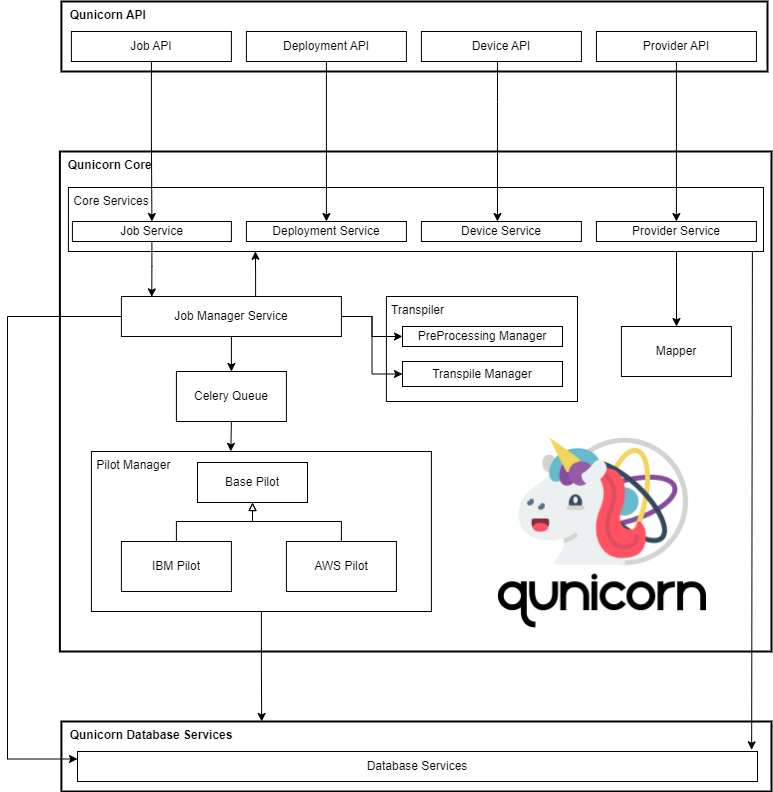
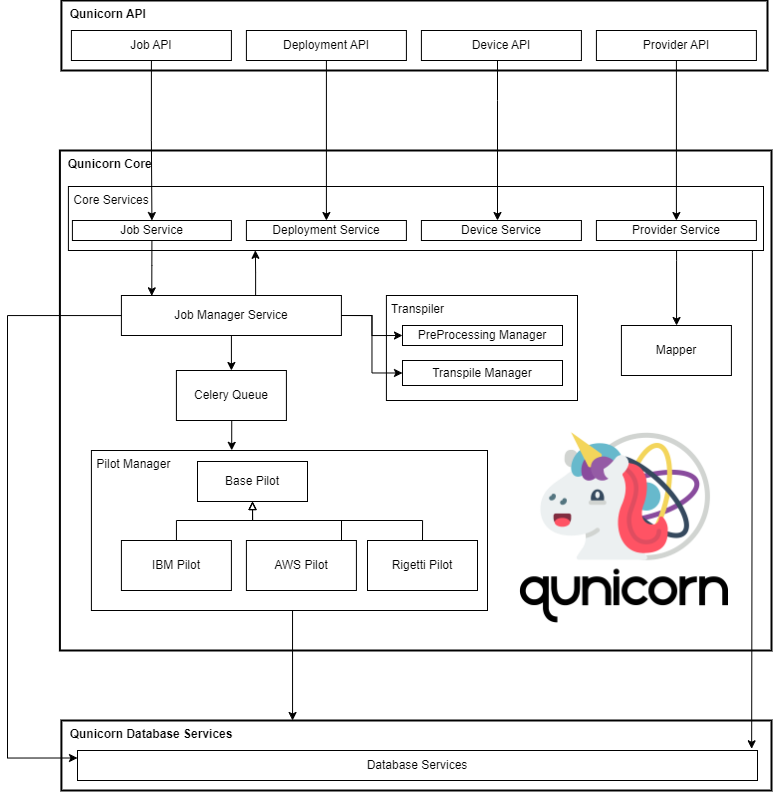
general fixes and documentation changes

diff --git a/qunicorn_core/core/pilotmanager/rigetti_pilot.py b/qunicorn_core/core/pilotmanager/rigetti_pilot.py
@@ -22,7 +22,7 @@ from qunicorn_core.util import logging
 DEFAULT_QUANTUM_CIRCUIT_2 = """from pyquil import Program \n
 from pyquil.gates import * \n
 from pyquil.quilbase import Declare\n
-program = Program(
+circuit = Program(
 Declare(\"ro\", \"BIT\", 2),
 H(0),
 H(0),
@@ -34,7 +34,7 @@ MEASURE(1, (\"ro\", 1)),
 DEFAULT_QUANTUM_CIRCUIT_1 = """from pyquil import Program \n
 from pyquil.gates import * \n
 from pyquil.quilbase import Declare\n
-program = Program(
+circuit = Program(
 Declare(\"ro\", \"BIT\", 2),
 H(0),
 CNOT(0, 1),
@@ -60,11 +60,11 @@ class RigettiPilot(Pilot):
                 qvm = get_qc(job_core_dto.executed_on.name)
                 qvm_result = qvm.run(qvm.compile(program)).get_register_map().get("ro")
                 result_dict = RigettiPilot.result_to_dict(qvm_result)
-                hex_result_dict = RigettiPilot.qubit_binary_to_hex(result_dict, job_core_dto.id)
-                probabalities_dict = RigettiPilot.calculate_probabilities(hex_result_dict)
+                result_dict = RigettiPilot.qubit_binary_to_hex(result_dict, job_core_dto.id)
+                probabilities_dict = RigettiPilot.calculate_probabilities(result_dict)
                 result = ResultDataclass(
                     circuit=job_core_dto.deployment.programs[program_index].quantum_circuit,
-                    result_dict={"counts": hex_result_dict, "probabilities": probabalities_dict},
+                    result_dict={"counts": result_dict, "probabilities": probabilities_dict},
                     result_type=ResultType.COUNTS,
                     meta_data="",
                 )
@@ -77,20 +77,19 @@ class RigettiPilot(Pilot):
             )
 
     @staticmethod
-    def result_to_dict(string_result):
+    def result_to_dict(results: []) -> dict:
         """Converts the result of the qvm to a dictionary"""
-        result_strings = []
-        for row in string_result:
-            i = len(row)
-            result_string = ""
-            for x in range(0, i):
-                result_string += str(row[x])
-            result_strings.append(result_string)
-        result_set = set(result_strings)
-        dict_result = {}
+        results_as_strings = []
+        for row in results:
+            row_as_string = ""
+            for index in range(0, len(row)):
+                row_as_string += str(row[index])
+            results_as_strings.append(row_as_string)
+        result_set = set(results_as_strings)
+        result_dict = {}
         for result_element in result_set:
-            dict_result.update({result_element: result_strings.count(result_element)})
-        return dict_result
+            result_dict.update({result_element: results_as_strings.count(result_element)})
+        return result_dict
 
     def execute_provider_specific(self, job_core_dto: JobCoreDto):
         """Execute a job of a provider specific type on a backend using a Pilot"""

diff --git a/qunicorn_core/core/pilotmanager/ibm_pilot.py b/qunicorn_core/core/pilotmanager/ibm_pilot.py
@@ -214,7 +214,7 @@ class IBMPilot(Pilot):
 
         for i in range(len(ibm_result.results)):
             counts: dict = ibm_result.results[i].data.counts
-            probabilities: dict = IBMPilot.calculate_probabilities(counts)
+            probabilities: dict = Pilot.calculate_probabilities(counts)
             circuit: str = job_dto.deployment.programs[i].quantum_circuit
             result_dtos.append(
                 ResultDataclass(
@@ -288,7 +288,7 @@ class IBMPilot(Pilot):
             shots=4000,
             type=JobType.RUNNER,
             started_at=datetime.now(),
-            name="IMBJob",
+            name="IBMJob",
             results=[
                 ResultDataclass(
                     result_dict={

diff --git a/qunicorn_core/static/enums/assembler_languages.py b/qunicorn_core/static/enums/assembler_languages.py
@@ -24,7 +24,6 @@ class AssemblerLanguage(StrEnum):
         QISKIT: Assembler format form IBM
         PYTHON: Python language for IBM File Upload
         QRISP: Assembler format from Fraunhofer
-        BASIQ: Assembler format from QMWARE (Not implemented yet)
         QUIL: Assembler format from Rigetti
     """
 
@@ -34,5 +33,4 @@ class AssemblerLanguage(StrEnum):
     BRAKET = "BRAKET"
     QISKIT = "QISKIT"
     PYTHON = "PYTHON"
-    BASIQ = "BASIQ"
     QUIL = "Quil"

diff --git a/qunicorn_core/core/transpiler/preprocessing_manager.py b/qunicorn_core/core/transpiler/preprocessing_manager.py
@@ -69,6 +69,5 @@ def preprocess_qrisp(program: str) -> QrispQC:
 
 @preprocessing_manager.register(AssemblerLanguage.QUIL)
 def preprocess_quil(program: str) -> Program:
-    """quil.QuantumCircuit needs to be included here as an import so eval works with the type"""
     exec(program, globals())
-    return globals().get("program")
+    return globals().get("circuit")

diff --git a/docs/project_introduction/current_functionality.rst b/docs/project_introduction/current_functionality.rst
@@ -30,6 +30,12 @@ Currently the following providers are available:
     * Available Functions
         * RUNNER
 
+* Rigetti:
+    * Base languages:
+        * Quil
+    * Available Functions
+        * RUNNER
+
 Please note that this list is not exhaustive and will be updated as more providers are added.
 
 
@@ -37,11 +43,12 @@ Supported Assembler languages
 ^^^^^^^^^^^^^^^^^^^^^^^^^^^^^
 Qunicorn supports a vast array of different assembler languages in the context of quantum computing.
 
-* QASM
+* QASM2
+* QASM3
 * Braket
 * Python
 * Qrisp
-* BasiQ
+* Quil
 
 Please note that this list is not exhaustive and will be updated as more assembler languages are added.
 
